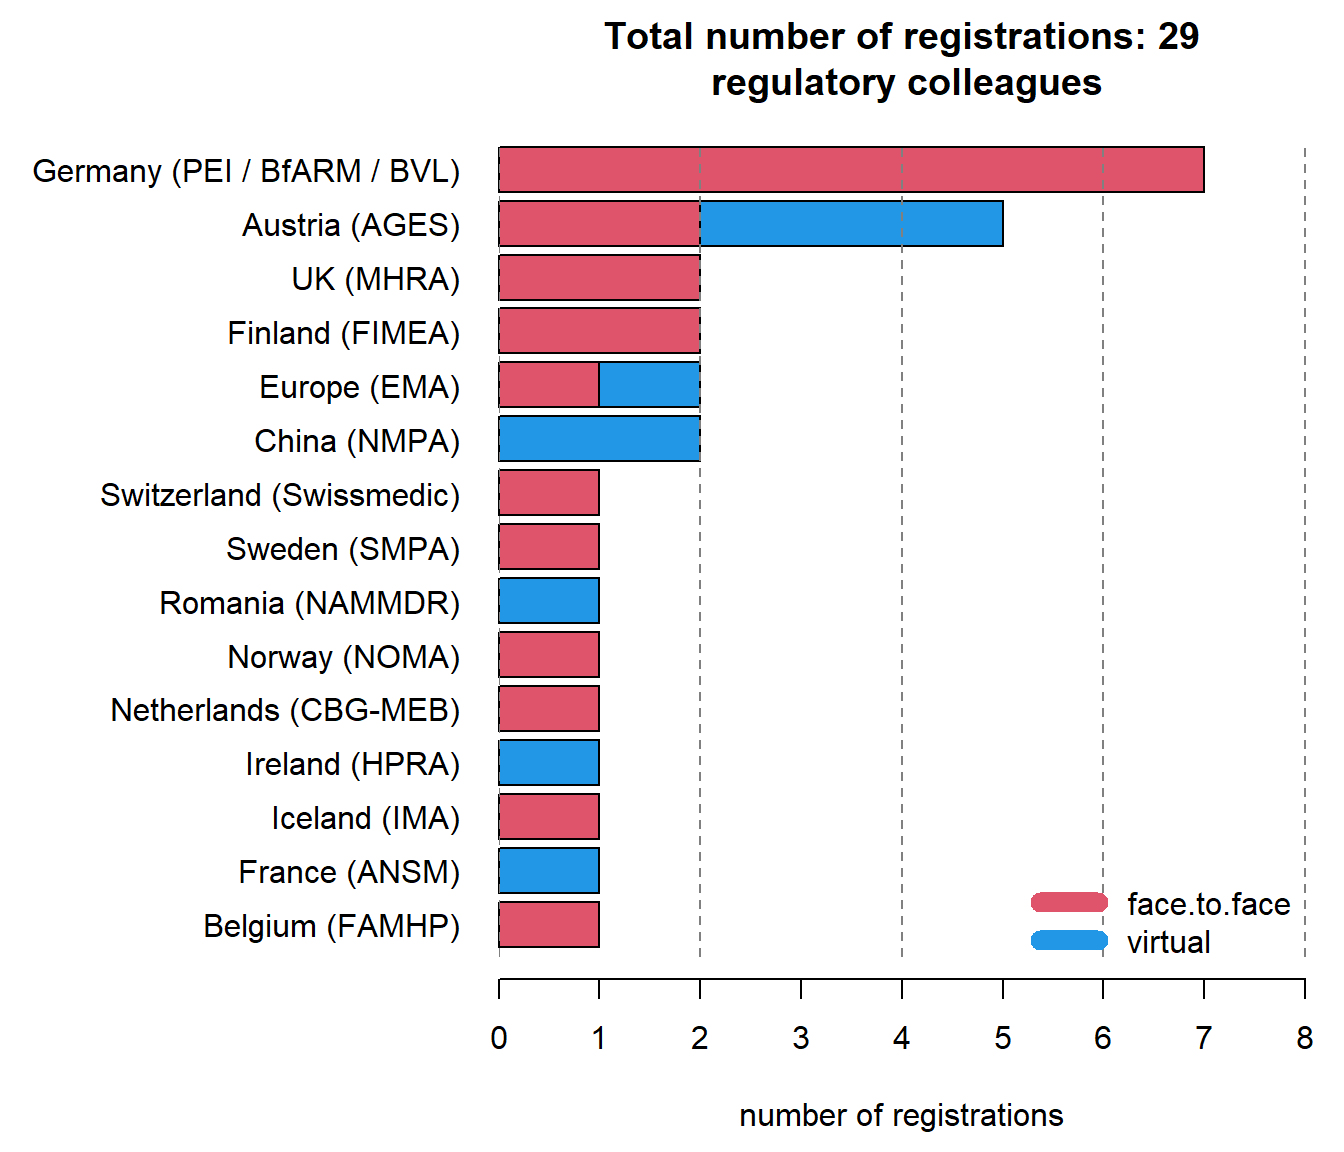
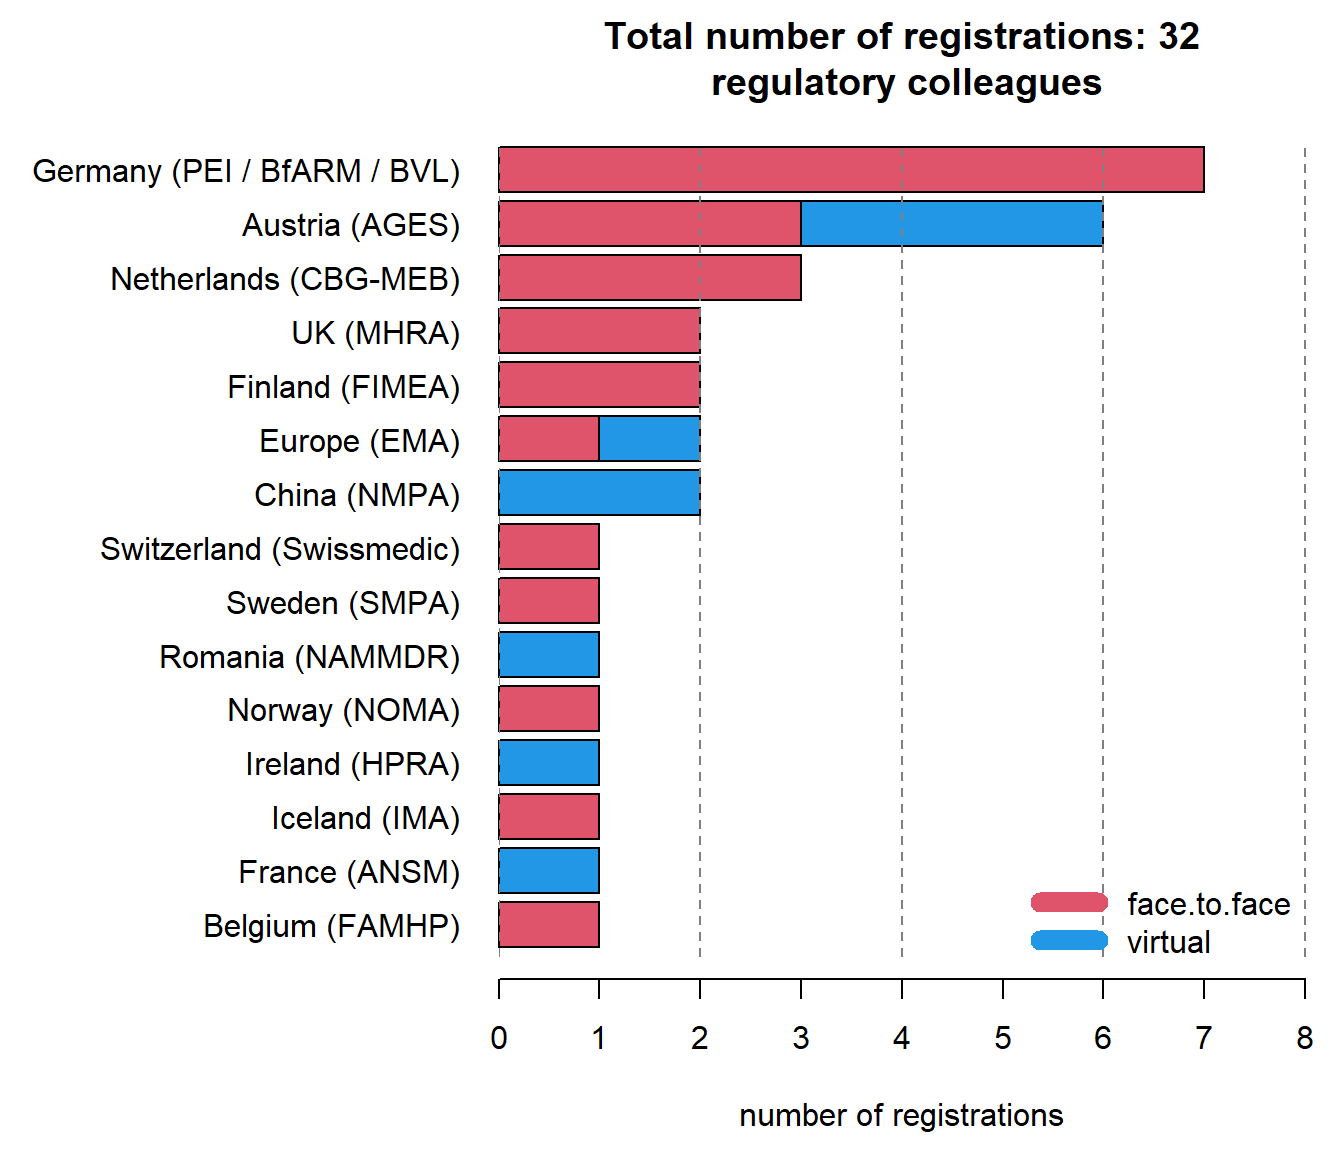
update

diff --git a/docs/data/2025/analysis2025.html b/docs/data/2025/analysis2025.html
@@ -7,7 +7,7 @@
 <meta name="viewport" content="width=device-width, initial-scale=1.0, user-scalable=yes">
 
 <meta name="author" content="Kaspar Rufibach">
-<meta name="dcterms.date" content="2025-06-22">
+<meta name="dcterms.date" content="2025-06-24">
 
 <title>EFSPI regulatory statistics workshop - EFSPI regulatory statistics workshop 2025: analysis of registrations</title>
 <style>
@@ -202,7 +202,7 @@ ul.task-list li input[type="checkbox"] {
     <div>
     <div class="quarto-title-meta-heading">Published</div>
     <div class="quarto-title-meta-contents">
-      <p class="date">June 22, 2025</p>
+      <p class="date">June 24, 2025</p>
     </div>
   </div>
   
@@ -214,7 +214,7 @@ ul.task-list li input[type="checkbox"] {
 
 <section id="data-status" class="level1">
 <h1>Data status</h1>
-<p>Data as of 2025-06-22 at 22:16:48.</p>
+<p>Data as of 2025-06-24 at 17:26:26.</p>
 </section>
 <section id="registrations-by-type-of-institution" class="level1">
 <h1>Registrations by type of institution</h1>
@@ -347,10 +347,10 @@ ul.task-list li input[type="checkbox"] {
 <thead>
 <tr class="header">
 <th style="text-align: left;"></th>
-<th style="text-align: center;">Boehringer Ingelheim (N=7)</th>
-<th style="text-align: center;">Novartis (N=46)</th>
+<th style="text-align: center;">Boehringer Ingelheim (N=8)</th>
+<th style="text-align: center;">Novartis (N=47)</th>
 <th style="text-align: center;">Roche (N=36)</th>
-<th style="text-align: center;">Total (N=89)</th>
+<th style="text-align: center;">Total (N=91)</th>
 </tr>
 </thead>
 <tbody>
@@ -363,17 +363,17 @@ ul.task-list li input[type="checkbox"] {
 </tr>
 <tr class="even">
 <td style="text-align: left;">&nbsp;&nbsp;&nbsp;Face-to-face (280 Euro)</td>
-<td style="text-align: center;">7 (100.0%)</td>
-<td style="text-align: center;">1 (2.2%)</td>
+<td style="text-align: center;">8 (100.0%)</td>
+<td style="text-align: center;">1 (2.1%)</td>
 <td style="text-align: center;">31 (86.1%)</td>
-<td style="text-align: center;">39 (43.8%)</td>
+<td style="text-align: center;">40 (44.0%)</td>
 </tr>
 <tr class="odd">
 <td style="text-align: left;">&nbsp;&nbsp;&nbsp;Virtual (70 Euro)</td>
 <td style="text-align: center;">0 (0.0%)</td>
-<td style="text-align: center;">45 (97.8%)</td>
+<td style="text-align: center;">46 (97.9%)</td>
 <td style="text-align: center;">5 (13.9%)</td>
-<td style="text-align: center;">50 (56.2%)</td>
+<td style="text-align: center;">51 (56.0%)</td>
 </tr>
 </tbody>
 </table>

diff --git a/docs/data/2024/analysis2024.html b/docs/data/2024/analysis2024.html
@@ -7,7 +7,7 @@
 <meta name="viewport" content="width=device-width, initial-scale=1.0, user-scalable=yes">
 
 <meta name="author" content="Kaspar Rufibach">
-<meta name="dcterms.date" content="2025-06-22">
+<meta name="dcterms.date" content="2025-06-24">
 
 <title>EFSPI regulatory statistics workshop - EFSPI regulatory statistics workshop 2024: analysis of registrations</title>
 <style>
@@ -204,7 +204,7 @@ ul.task-list li input[type="checkbox"] {
     <div>
     <div class="quarto-title-meta-heading">Published</div>
     <div class="quarto-title-meta-contents">
-      <p class="date">June 22, 2025</p>
+      <p class="date">June 24, 2025</p>
     </div>
   </div>
   
@@ -216,7 +216,7 @@ ul.task-list li input[type="checkbox"] {
 
 <section id="data-status" class="level1">
 <h1>Data status</h1>
-<p>Data as of 2025-06-22 at 22:16:35.</p>
+<p>Data as of 2025-06-24 at 17:26:14.</p>
 </section>
 <section id="registrations-by-type-of-institution" class="level1">
 <h1>Registrations by type of institution</h1>

diff --git a/docs/feedback.html b/docs/feedback.html
@@ -7,7 +7,7 @@
 <meta name="viewport" content="width=device-width, initial-scale=1.0, user-scalable=yes">
 
 <meta name="author" content="Kaspar Rufibach">
-<meta name="dcterms.date" content="2025-06-22">
+<meta name="dcterms.date" content="2025-06-24">
 
 <title>EFSPI regulatory statistics workshop - EFSPI regulatory statistics workshop: feedback from previous years</title>
 <style>
@@ -191,7 +191,7 @@ ul.task-list li input[type="checkbox"] {
     <div>
     <div class="quarto-title-meta-heading">Published</div>
     <div class="quarto-title-meta-contents">
-      <p class="date">June 22, 2025</p>
+      <p class="date">June 24, 2025</p>
     </div>
   </div>
   

diff --git a/docs/past_scicom.html b/docs/past_scicom.html
@@ -6,7 +6,7 @@
 
 <meta name="viewport" content="width=device-width, initial-scale=1.0, user-scalable=yes">
 
-<meta name="dcterms.date" content="2025-06-22">
+<meta name="dcterms.date" content="2025-06-24">
 
 <title>EFSPI regulatory statistics workshop - Past workshops: analysis of registrations and feedback (for restricted audience only)</title>
 <style>
@@ -183,7 +183,7 @@ ul.task-list li input[type="checkbox"] {
     <div>
     <div class="quarto-title-meta-heading">Published</div>
     <div class="quarto-title-meta-contents">
-      <p class="date">June 22, 2025</p>
+      <p class="date">June 24, 2025</p>
     </div>
   </div>
   
